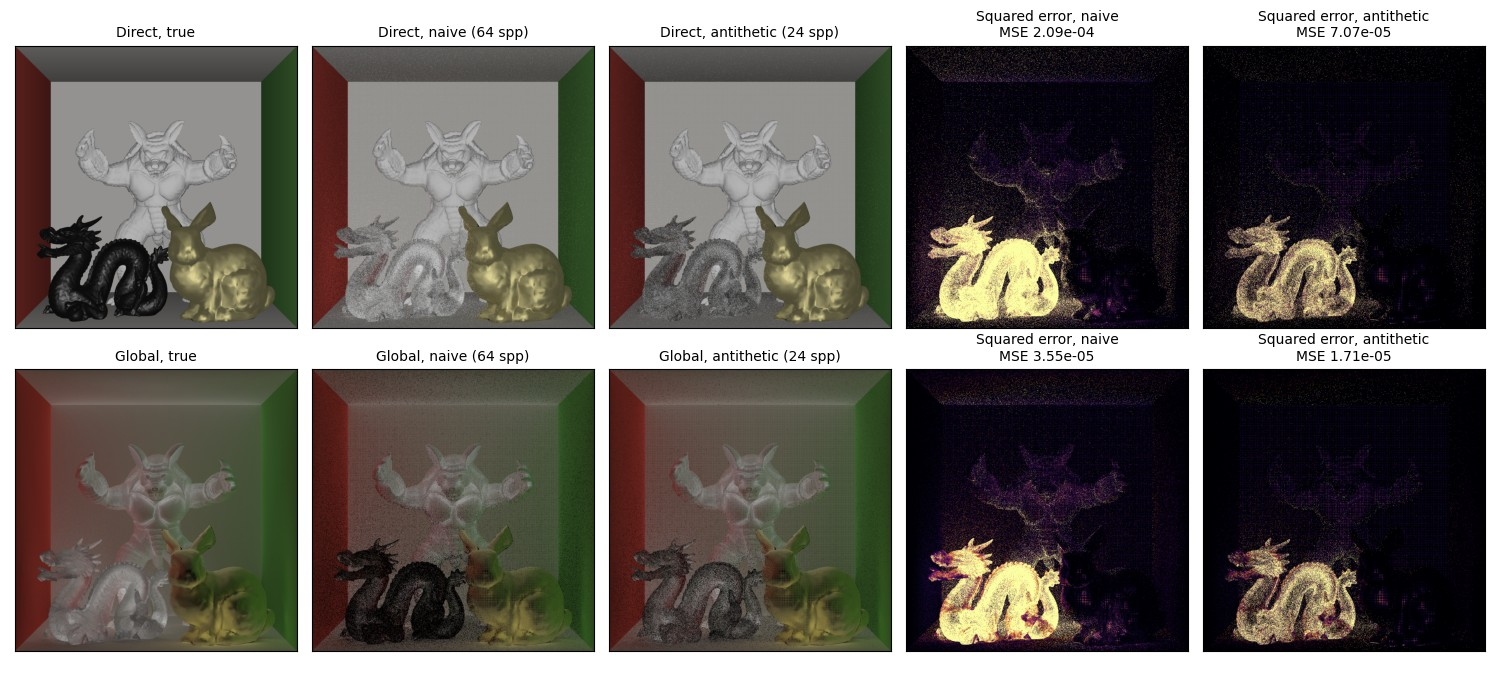
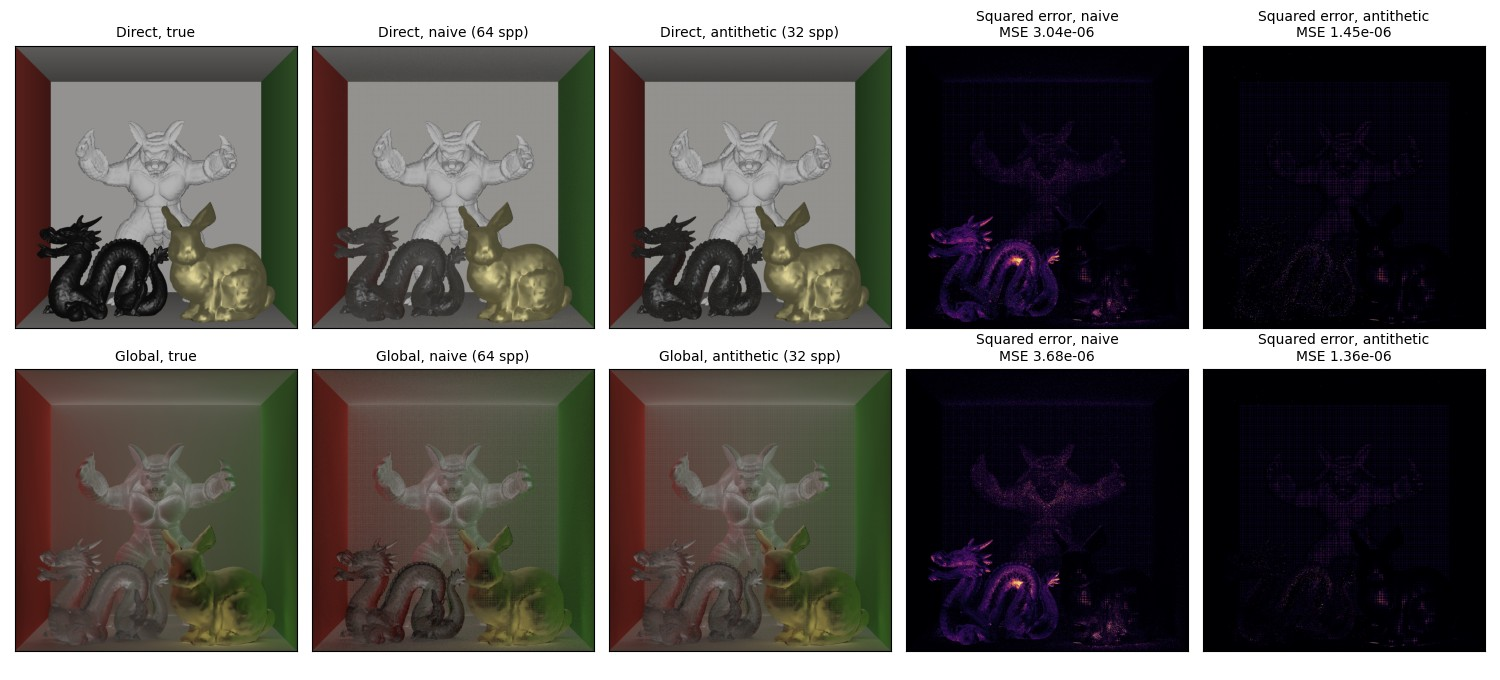
Docs: separation application at 64 / 32 spp after the original experiment
Direct images rendered first and shared; indirect at 64 (naive) / 32 (antithetic) spp per image instead of equal
time. With the projector lighting only the incoming side, the result matches the paper: MSE direct 3.0e-6 vs
1.5e-6, global 3.7e-6 vs 1.4e-6.

diff --git a/docs_falcorcomp/src/applications/code/direct_global_separation.py b/docs_falcorcomp/src/applications/code/direct_global_separation.py
@@ -1,8 +1,6 @@
 """Separation of the direct and global light with high-frequency checkerboards (Nayar et
 al. 2006), with naive and antithetic sampling of the indirect light."""
 # 1. Load the scene
-import time
-
 import matplotlib
 matplotlib.use("Agg")  # no window
 import matplotlib.pyplot as plt
@@ -17,7 +15,9 @@ testbed.scene.camera.aspectRatio = 1.0
 testbed.clock.pause()
 
 SHIFTS = 25           # checkerboards shifted by fifths of a cell, 5 x 5
-NAIVE_SPP = 64        # indirect samples per pixel of each naive image
+# Indirect samples per pixel of each image. An antithetic sample traces a partner path,
+# so it gets half as many.
+SPP = {"bsdf": 64, "antithetic": 32}
 CONVERGED_SPP = 2048  # samples per pixel of the white images
 
 # 2. The projector and the render graph
@@ -54,34 +54,16 @@ def render(properties, spp):
     return graph.get_output("Accumulate.output").to_numpy()[..., :3].copy()
 
 
-# 3. Equal time: the cost of a frame of each method
-def frame_time(method):
-    graph.update_pass("Tracer", {**TRACER, "samplesPerPixel": 1, "computeDirect": False,
-                                 "pattern": "checkerboard", "samplingMethod": method})
-    for _ in range(100):  # compile and warm up the GPU
-        testbed.frame()
-    testbed.device.wait()
-    start = time.perf_counter()
-    for _ in range(300):
-        testbed.frame()
-    testbed.device.wait()
-    return (time.perf_counter() - start) / 300
-
-
-cost = {method: frame_time(method) for method in ["bsdf", "antithetic"]}
-SPP = {"bsdf": NAIVE_SPP, "antithetic": round(NAIVE_SPP * cost["bsdf"] / cost["antithetic"])}
-print(f"frame time: naive {1000 * cost['bsdf']:.2f} ms, antithetic {1000 * cost['antithetic']:.2f} ms; "
-      f"antithetic gets {SPP['antithetic']} spp")
-
-# 4. The white image, and the true direct and global light
+# 3. The white image, and the true direct and global light
 white = render({"pattern": "constant"}, CONVERGED_SPP)
 true_direct = render({"pattern": "constant", "maxBounces": 1}, CONVERGED_SPP)
 true_global = white - true_direct
 
-# 5. Capture the checkerboards and their inverses
+# 4. Capture the checkerboards and their inverses
 # The pass renders the signed pattern P = +-1. The image under the binary checkerboard
 # (1 where P = 1, 0 elsewhere) is (white + signed) / 2. The direct light of each pattern
-# is rendered once; only the indirect light is rendered with each method.
+# is rendered first, once (it is easy to converge); only the indirect light, the hard
+# part, is rendered with each method.
 patterns = [{"pattern": "checkerboard", "checkerShift": shift, "invertPattern": inverse}
             for shift in range(SHIFTS) for inverse in [False, True]]
 direct_images = [render({**pattern, "maxBounces": 1}, CONVERGED_SPP // 16) for pattern in patterns]
@@ -95,7 +77,7 @@ def capture(method):
     return np.stack(images)
 
 
-# 6. Separate (Nayar et al.): a point is lit in some images and dark in others. Lit, it
+# 5. Separate (Nayar et al.): a point is lit in some images and dark in others. Lit, it
 # gets its direct light and half its global light; dark, only half its global light.
 def separate(images):
     brightest, darkest = images.max(axis=0), images.min(axis=0)
@@ -120,7 +102,7 @@ for name, method in [("naive", "bsdf"), ("antithetic", "antithetic")]:
     print(f"{name} ({SPP[method]} spp): MSE direct {errors[0]:.2e}, global {errors[1]:.2e}")
     results[name] = (direct, global_, errors, SPP[method])
 
-# 7. Show the components and their squared errors
+# 6. Show the components and their squared errors
 # The 1024 x 1024 images are shown smaller, filtered (interpolation="antialiased").
 fig, axes = plt.subplots(2, 5, figsize=(15, 6.8))
 for row, (component, truth) in enumerate([("Direct", true_direct), ("Global", true_global)]):

diff --git a/docs_falcorcomp/src/applications/direct_global_separation.md b/docs_falcorcomp/src/applications/direct_global_separation.md
@@ -4,7 +4,7 @@ Nayar et al. (2006) separate the light a camera sees into a direct part, light t
 from the source, and a global part, all the rest (interreflections, light through glass, ...), with high-frequency
 illumination. This page renders the separation scene, a glass dragon, a white armadillo and a rough gold bunny in a
 Cornell box, with `StructuredLightPathTracerInline` and shifted checkerboards, and compares naive and antithetic
-sampling of the indirect light at equal time.
+sampling of the indirect light.
 
 ```{image} images/direct_global_separation.jpg
 :alt: Direct and global light of the separation scene, true and separated with naive and antithetic sampling, with squared-error maps
@@ -19,9 +19,12 @@ sampling of the indirect light at equal time.
 - **Patterns**: a binary checkerboard of 1024 x 1024 cells, about one pixel each, shifted over a 5 x 5 grid of
   fifths of a cell, and the inverse of each: 50 images.
 - **Images**: 1024 x 1024, with primary rays jittered over each pixel (`VBufferRT` with 32 Halton positions). The
-  direct light of each pattern is rendered once (128 samples per pixel); only its indirect light, the noisy part,
-  is rendered with each method. Naive sampling gets 64 samples per pixel for each image, antithetic sampling the
-  number that takes the same time.
+  direct light of each pattern is rendered first, once (128 samples per pixel); only its indirect light, the noisy
+  part, is rendered with each method: 64 samples per pixel for naive sampling, 32 for antithetic sampling, whose
+  samples each trace a partner path.
+- **Glass**: the projector lights a surface only on the side its path arrives from, so it does not light the inside
+  of the glass dragon through its surface; the dragon's global light is the light of the walls and the other
+  objects, seen through the glass.
 
 ```{literalinclude} code/direct_global_separation.py
 :language: python
@@ -36,8 +39,8 @@ elsewhere, is half the sum of the white image and the signed one:
 
 ```{literalinclude} code/direct_global_separation.py
 :language: python
-:start-after: "# 5. Capture the checkerboards and their inverses"
-:end-before: "# 6. Separate"
+:start-after: "# 4. Capture the checkerboards and their inverses"
+:end-before: "# 5. Separate"
 ```
 
 Under a fine pattern that lights half the scene, a lit point receives its direct light and half its global light,
@@ -46,7 +49,7 @@ brightest image minus the darkest is the direct light, and twice the darkest is 
 
 ```{literalinclude} code/direct_global_separation.py
 :language: python
-:start-after: "# 6. Separate (Nayar et al.)"
+:start-after: "# 5. Separate (Nayar et al.)"
 :end-before: "def luminance"
 ```
 
@@ -62,21 +65,21 @@ brightest image minus the darkest is the direct light, and twice the darkest is 
   - Global MSE
 * - Naive
   - 64
-  - 2.1e-4
-  - 3.6e-5
-* - Antithetic (same time)
-  - 24
-  - **7.1e-5**
-  - **1.7e-5**
+  - 3.0e-6
+  - 3.7e-6
+* - Antithetic
+  - 32
+  - **1.5e-6**
+  - **1.4e-6**
 ```
 
 The maximum and the minimum over 50 images pick up the noise of the indirect light: with naive sampling, the noise
 raises the brightest image and lowers the darkest one, so the direct light comes out too bright and the global light
-too dark, most of all on the glass dragon, whose light is almost all global. Antithetic sampling pairs each sampled
-vertex with the vertex lit by the neighboring cell, of the opposite sign, so the indirect light cancels pair by pair;
-in the same time, with a third of the samples, the errors drop 3 times for the direct light and 2 times for the
-global light. The error maps show the squared error of the luminance, from 0 (black) to $10^{-4}$ (yellow); the
-images are shown filtered, at a third of their resolution.
+too dark, most of all on the glass dragon and on the floor under it, where the global light is strong. Antithetic
+sampling pairs each sampled vertex with the vertex lit by the neighboring cell, of the opposite sign, so the indirect
+light cancels pair by pair; with half the samples, the error drops 2 times for the direct light and almost 3 times
+for the global light. The error maps show the squared error of the luminance, from 0 (black) to $10^{-4}$ (yellow);
+the images are shown filtered, at a third of their resolution.
 
 The full script: {download}`direct_global_separation.py <code/direct_global_separation.py>`. Run it next to the
 unzipped `cornell-box-separation` folder; it takes a few minutes.

diff --git a/docs_falcorcomp/src/applications/modulated_index.md b/docs_falcorcomp/src/applications/modulated_index.md
@@ -3,7 +3,7 @@
 These applications reconstruct the scene from modulated-light measurements rendered with `CWToFPathTracerInline`
 and `StructuredLightPathTracerInline` (see [Modulated light](../tutorials/modulated_index.md)). They render the full
 measurement, direct and indirect light, as a real sensor sees it, and compare naive and
-[antithetic sampling](../tutorials/modulated_antithetic_index.md) at equal rendering time.
+[antithetic sampling](../tutorials/modulated_antithetic_index.md) of the indirect light.
 
 They use two Cornell-box scenes with objects from the Stanford 3D Scanning Repository. Download and unzip them next
 to the scripts:
